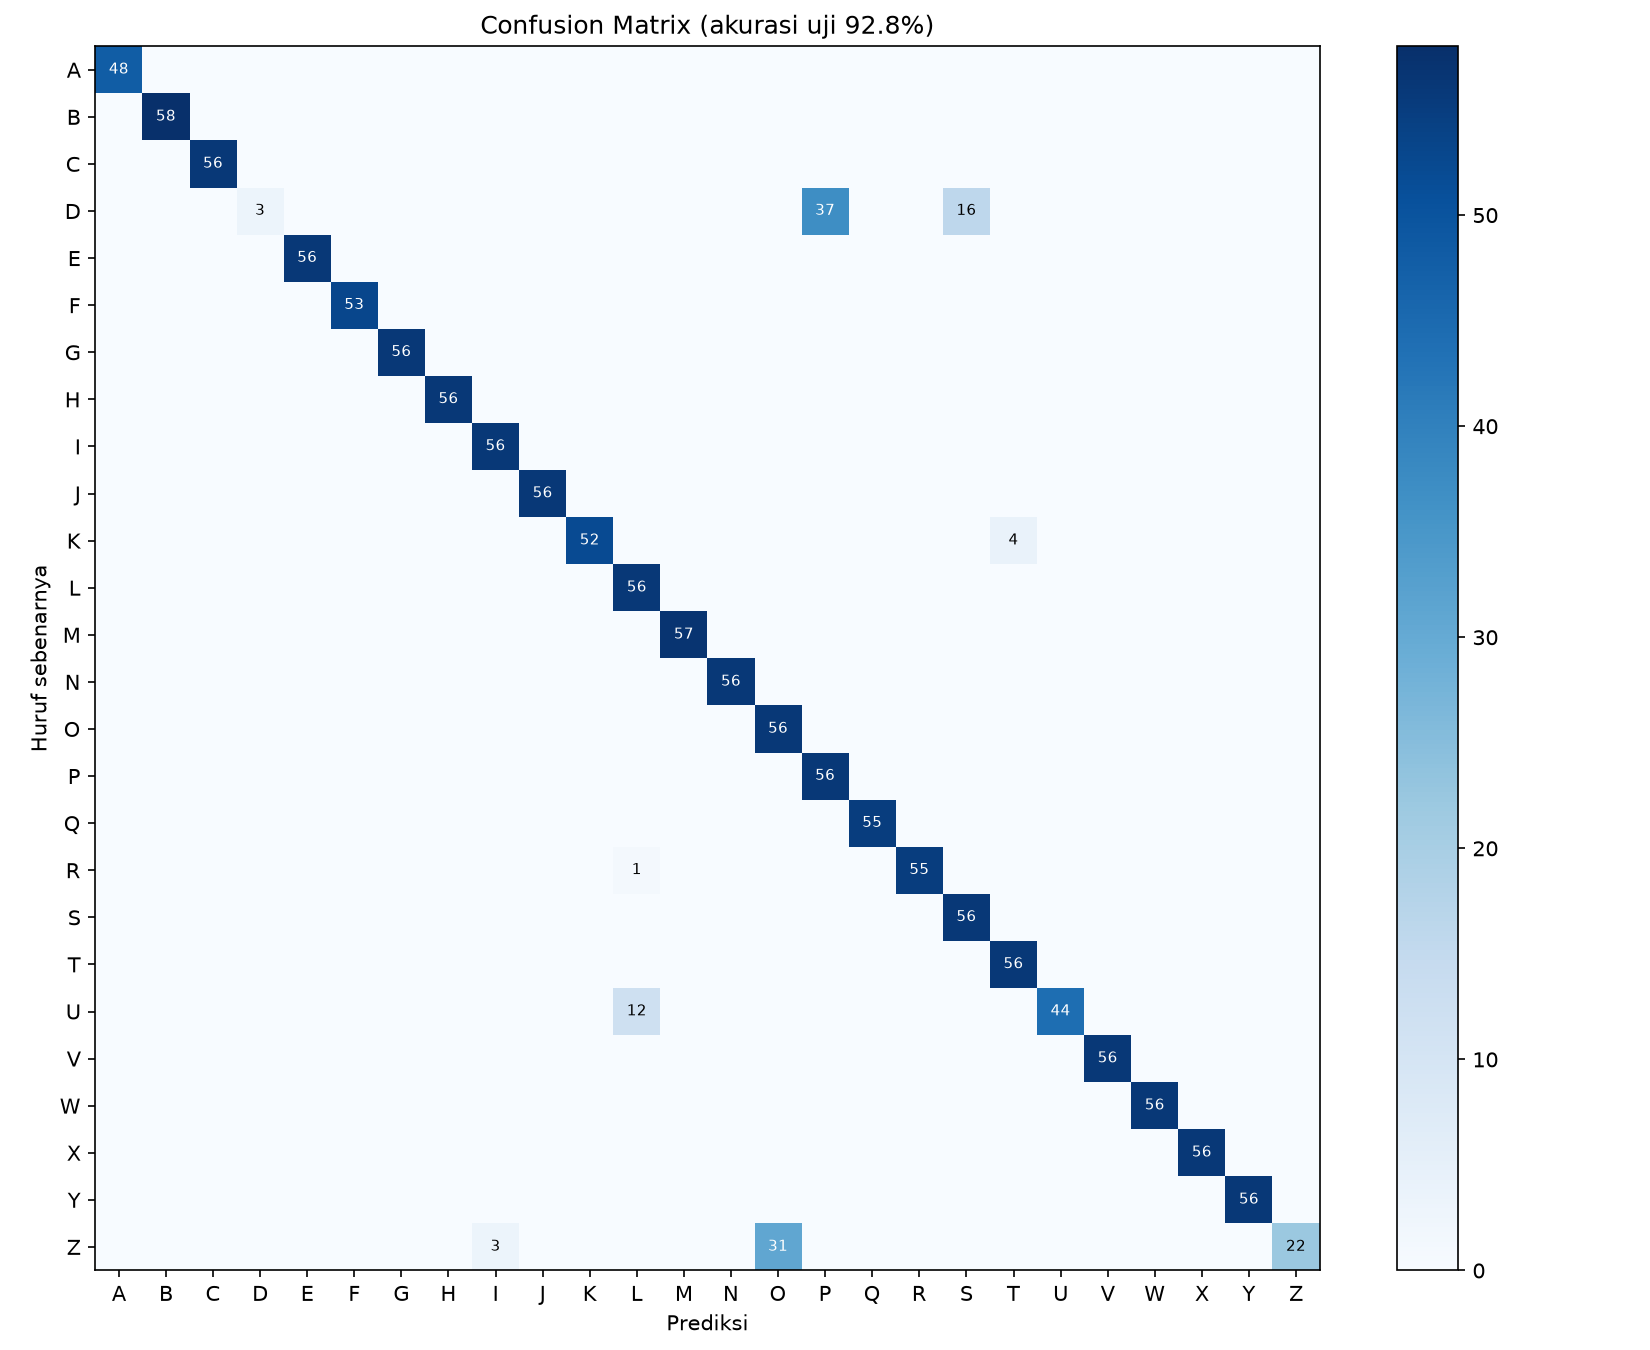
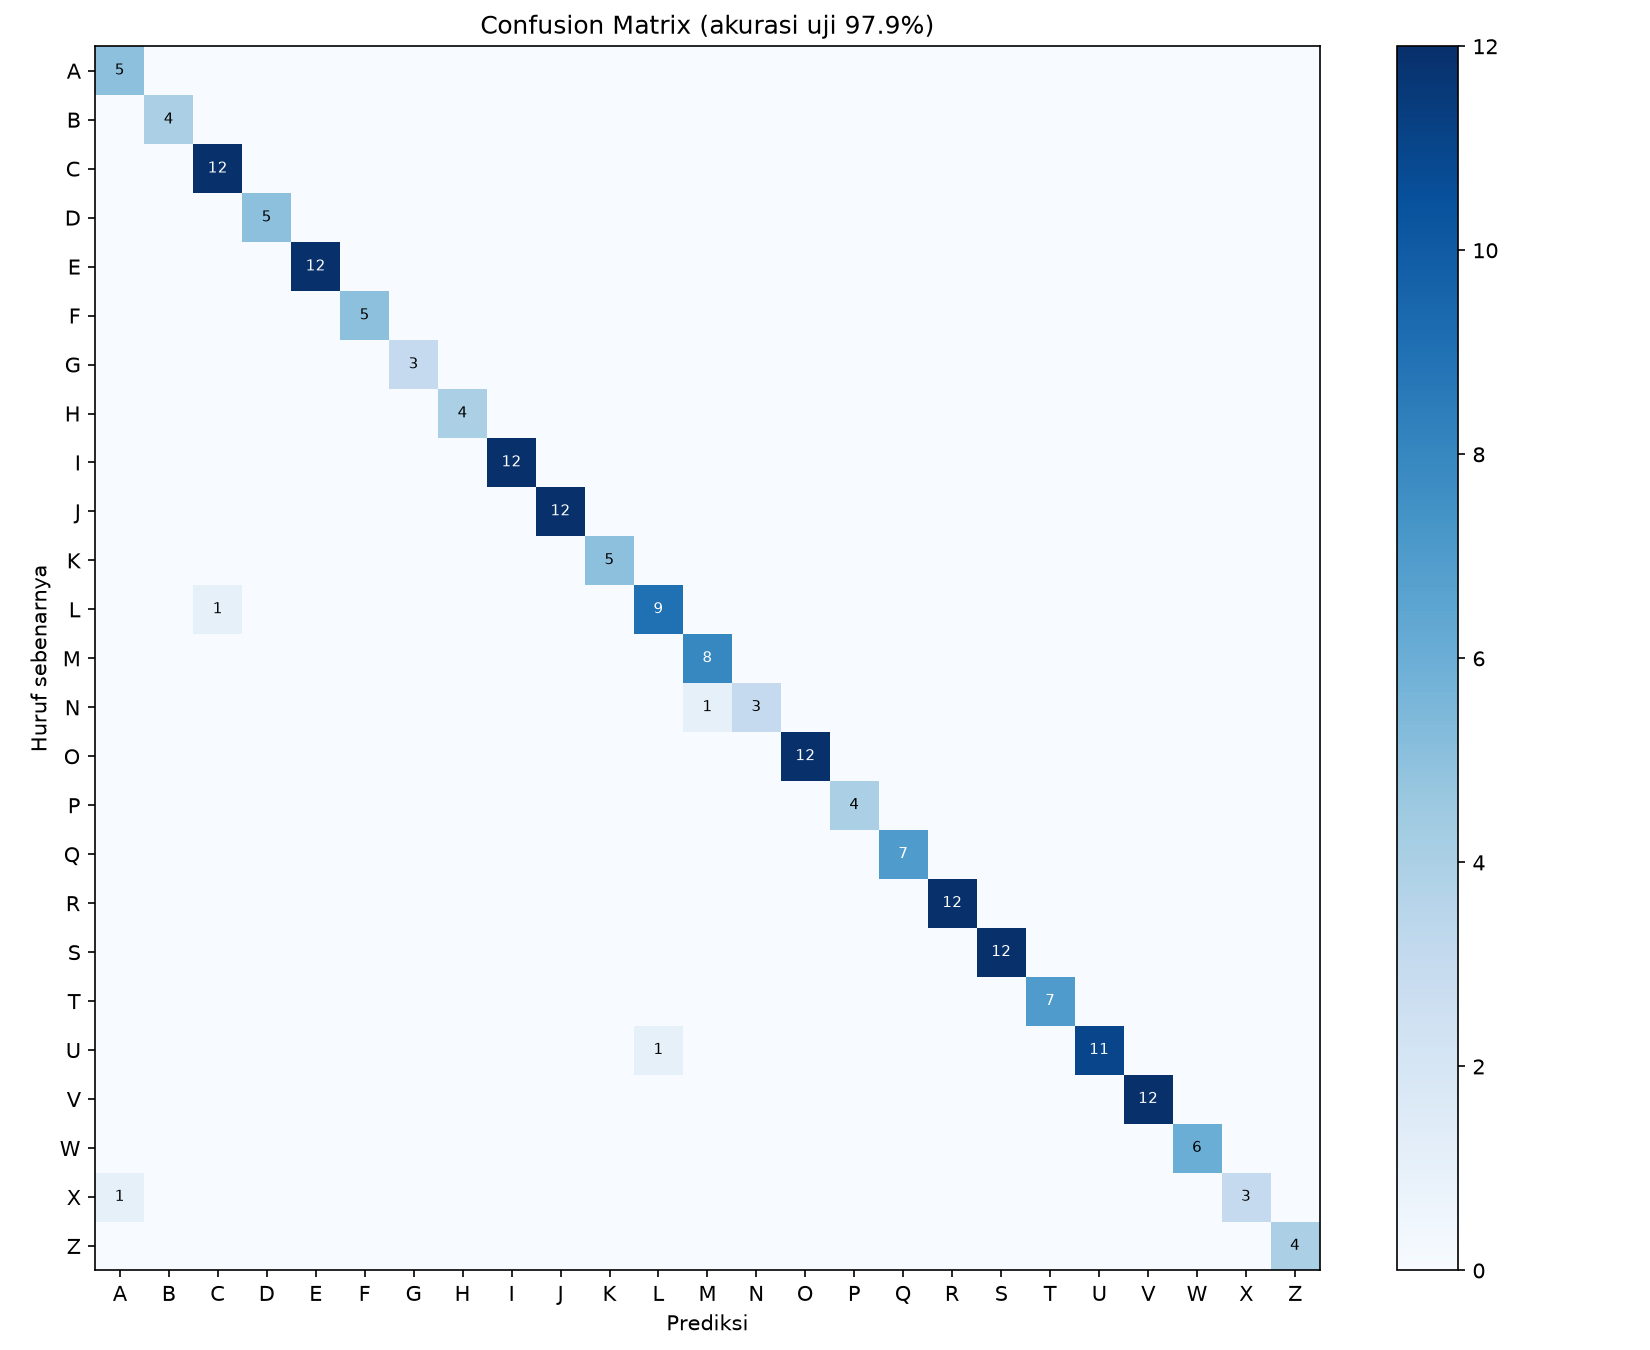
add jalanin aplikasi dan update readme

diff --git a/run_app.py b/run_app.py
@@ -1,0 +1,130 @@
+"""Script peluncur otomatis SignDesk (1-click runner).
+
+Fungsi:
+1. Memeriksa keberadaan model terlatih (models/model_terbaik.joblib).
+   Jika belum ada, otomatis melatih model dari data/landmarks/ (src/train.py).
+2. Mengatur konfigurasi encoding UTF-8 agar kompatibel dengan terminal Windows.
+3. Menjalankan server web Streamlit (app/app.py) pada port 8501.
+4. Memantau ketersediaan server dan otomatis membuka browser ke http://localhost:8501
+   begitu aplikasi siap digunakan.
+"""
+
+import os
+import sys
+import time
+import socket
+import threading
+import webbrowser
+import subprocess
+import urllib.request
+from pathlib import Path
+
+# Pastikan encoding UTF-8 di Windows terminal
+os.environ["PYTHONUTF8"] = "1"
+os.environ["PYTHONIOENCODING"] = "utf-8"
+
+BASE_DIR = Path(__file__).resolve().parent
+APP_PATH = BASE_DIR / "app" / "app.py"
+MODEL_PATH = BASE_DIR / "models" / "model_terbaik.joblib"
+TRAIN_SCRIPT = BASE_DIR / "src" / "train.py"
+DEFAULT_PORT = 8501
+
+
+def cek_port_tersedia(port):
+    """Cek apakah port tertentu sedang kosong atau sudah dipakai."""
+    with socket.socket(socket.AF_INET, socket.SOCK_STREAM) as s:
+        return s.connect_ex(("127.0.0.1", port)) != 0
+
+
+def tentukan_port():
+    """Gunakan port 8501 jika kosong, atau cari port berikutnya jika terpakai."""
+    port = DEFAULT_PORT
+    while not cek_port_tersedia(port) and port < DEFAULT_PORT + 10:
+        port += 1
+    return port
+
+
+def cek_dan_siapkan_model():
+    """Pastikan model machine learning sudah tersedia."""
+    if not MODEL_PATH.exists():
+        print("=" * 60, flush=True)
+        print("[INFO] File model belum ditemukan.", flush=True)
+        print("[INFO] Melatih model secara otomatis dari data landmarks...", flush=True)
+        print("=" * 60, flush=True)
+        hasil = subprocess.run([sys.executable, str(TRAIN_SCRIPT)], cwd=str(BASE_DIR))
+        if hasil.returncode != 0:
+            print("[ERROR] Pelatihan model gagal. Periksa data di folder data/landmarks/.", flush=True)
+            sys.exit(hasil.returncode)
+        print("[OK] Model berhasil dilatih dan disimpan ke models/model_terbaik.joblib!", flush=True)
+    else:
+        print("[OK] Model terlatih siap digunakan (models/model_terbaik.joblib).", flush=True)
+
+
+def buka_browser_otomatis(url):
+    """Tunggu hingga localhost aktif, lalu buka di browser default."""
+    print(f"[INFO] Menunggu server aktif di {url} ...", flush=True)
+    batas_waktu = 35  # detik
+    mulai = time.time()
+    buka_sukses = False
+
+    while time.time() - mulai < batas_waktu:
+        try:
+            with urllib.request.urlopen(url, timeout=1) as response:
+                if response.status == 200:
+                    print("\n" + "=" * 60, flush=True)
+                    print(" [SUKSES] SignDesk Siap Digunakan!", flush=True)
+                    print(f" URL: {url}", flush=True)
+                    print(" Membuka browser secara otomatis...", flush=True)
+                    print("=" * 60 + "\n", flush=True)
+                    webbrowser.open(url)
+                    buka_sukses = True
+                    break
+        except Exception:
+            pass
+        time.sleep(0.5)
+
+    if not buka_sukses:
+        print(f"\n[INFO] Jika browser tidak terbuka otomatis, silakan buka: {url}", flush=True)
+
+
+def main():
+    os.chdir(str(BASE_DIR))
+    print("\n" + "=" * 60, flush=True)
+    print("      SIGNDESK — PENERJEMAH ALFABET BISINDO (MODE LOKET)", flush=True)
+    print("=" * 60, flush=True)
+
+    cek_dan_siapkan_model()
+
+    port = tentukan_port()
+    url = f"http://localhost:{port}"
+
+    # Jalankan thread pemantau untuk membuka browser otomatis
+    thread_browser = threading.Thread(target=buka_browser_otomatis, args=(url,), daemon=True)
+    thread_browser.start()
+
+    perintah = [
+        sys.executable,
+        "-m",
+        "streamlit",
+        "run",
+        str(APP_PATH),
+        "--server.port",
+        str(port),
+        "--server.headless",
+        "true",
+        "--browser.gatherUsageStats",
+        "false",
+        "--server.enableCORS",
+        "false",
+        "--server.enableXsrfProtection",
+        "false",
+    ]
+
+    try:
+        subprocess.run(perintah, cwd=str(BASE_DIR))
+    except KeyboardInterrupt:
+        print("\n[INFO] Aplikasi SignDesk ditutup. Terima kasih!", flush=True)
+
+
+if __name__ == "__main__":
+    main()
